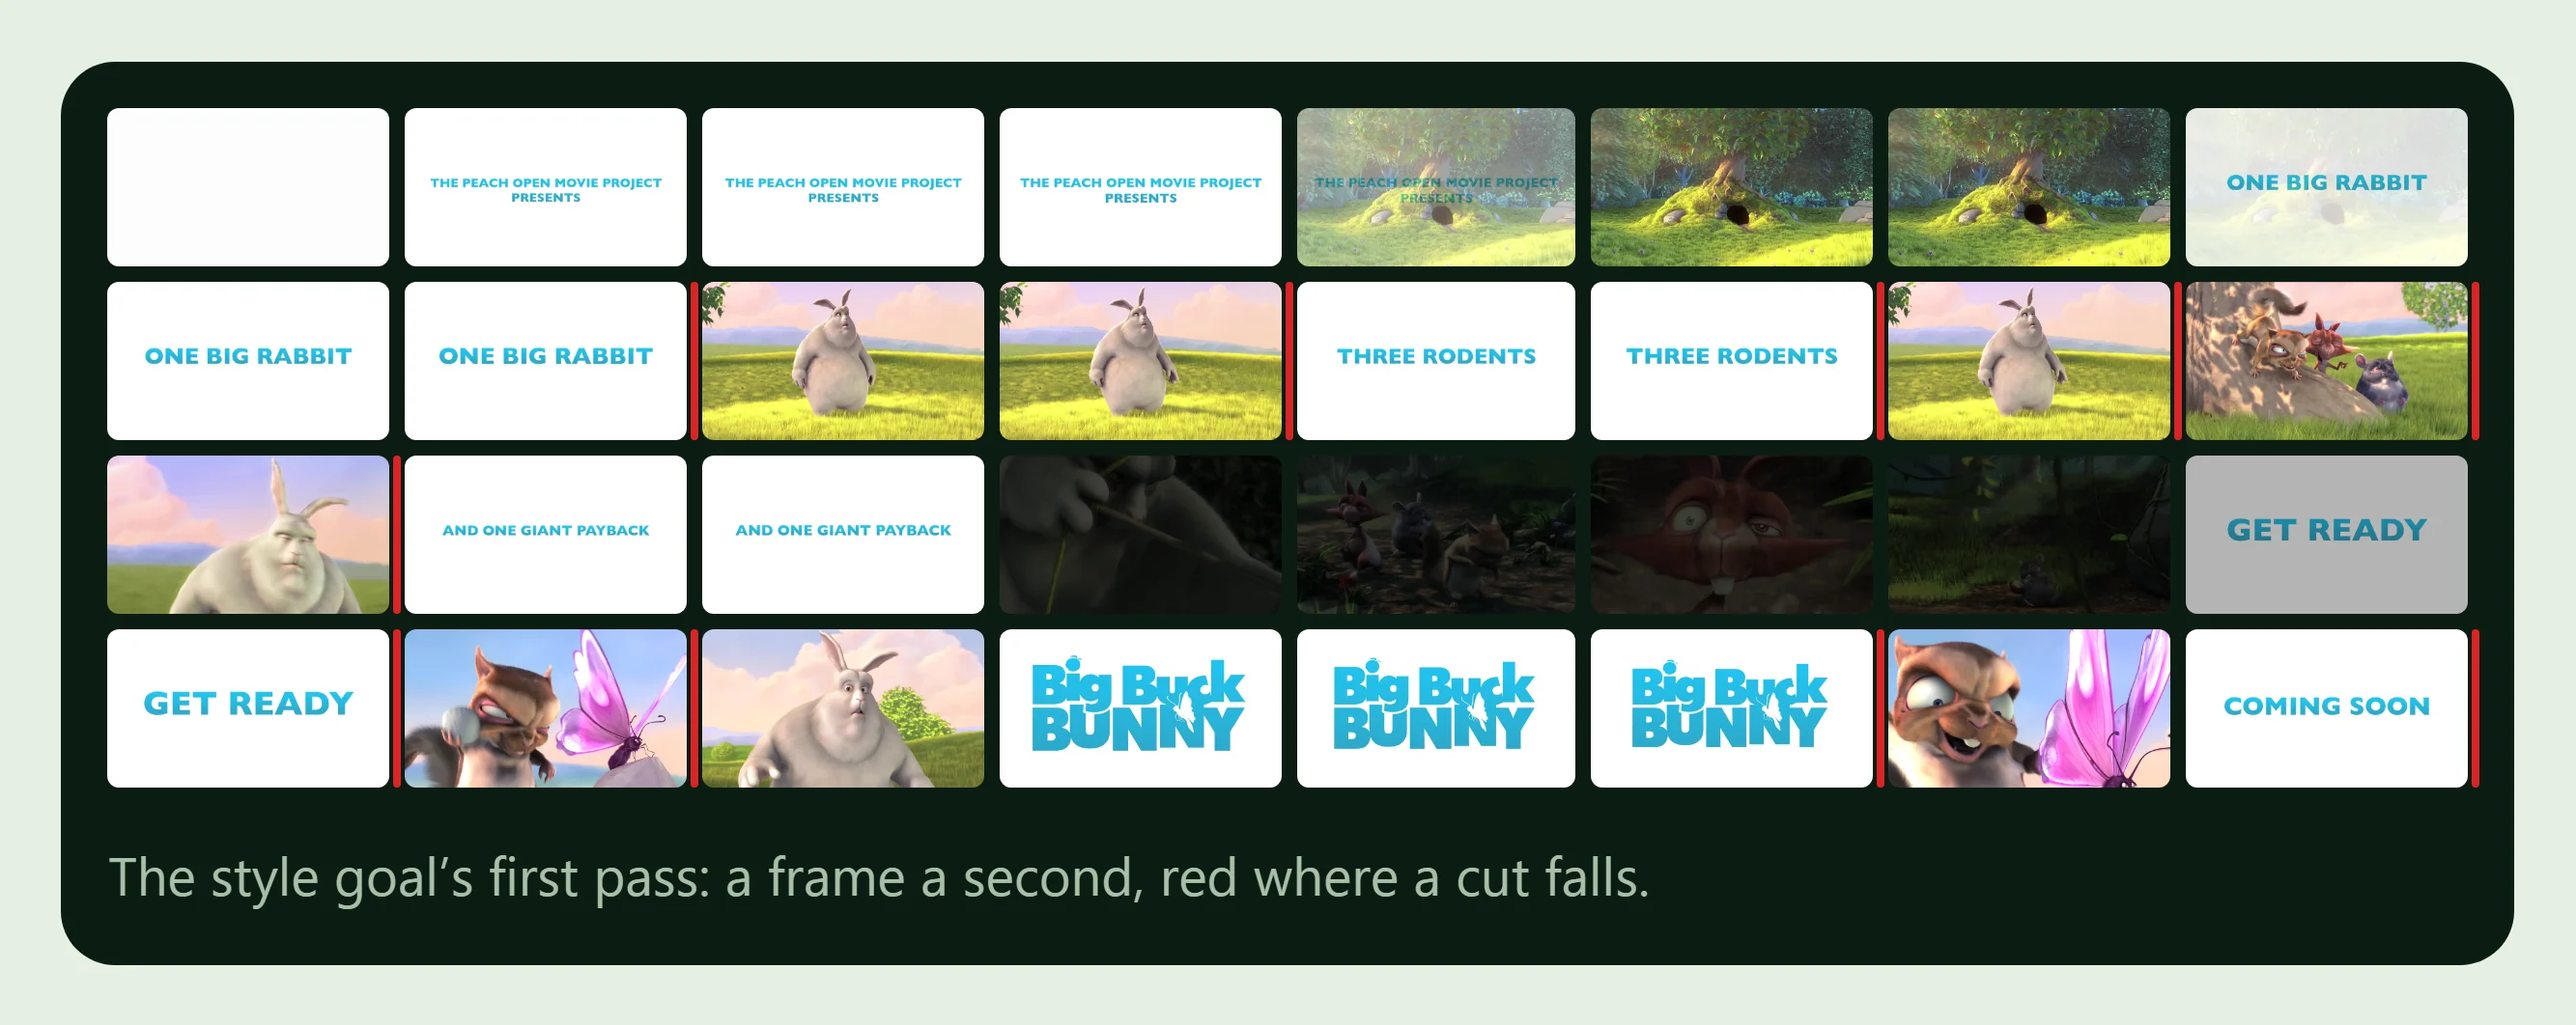
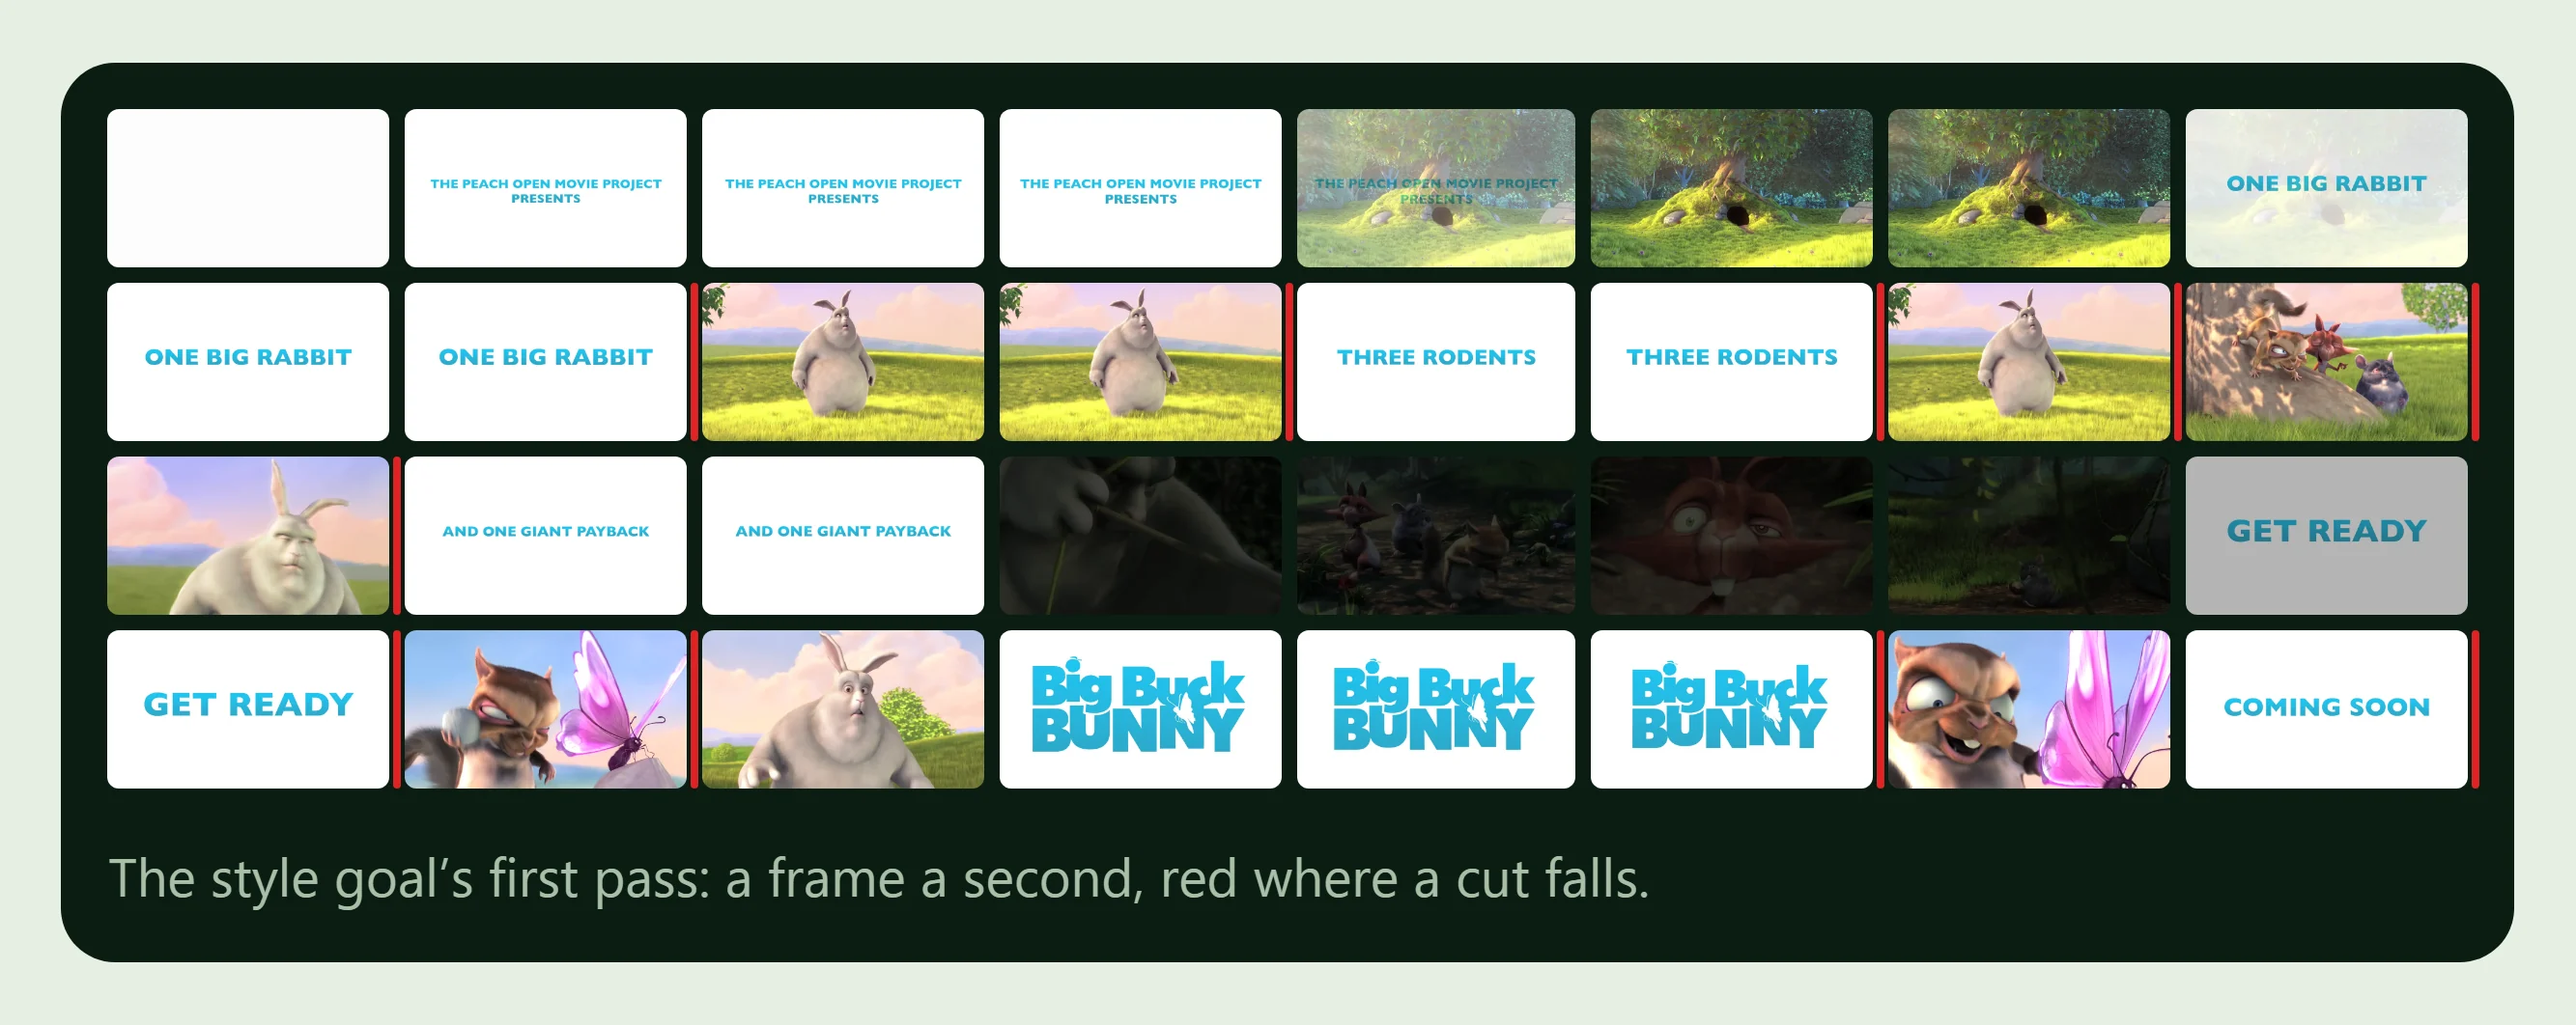
README: demo GIF, measured proof from the demo, new site screenshots
- The demo GIF (linked to demo.mp4) replaces its placeholder.
- "Why" uses the demo's proof as on the site: cubic-bezier(0.22, 1, 0.36, 1) animated,
  cubic-bezier(0.231, 0.951, 0.384, 0.996) measured by track, start 10.600 s (0 frames
  off), largest gap 0.18 px, grade exact; spring stiffness 170 read as 170.01. The
  trailer adds its 8 fades and dissolves and 20 shots from the regenerated reading.
- Screenshots recaptured from the updated site: the loupe scrubbed into the opening
  dissolve, the proof, the export tabs with the measured dots; readings table in full.
  Banner reading updated.
- Contributing links CONTRIBUTING.md and CODE_OF_CONDUCT.md; install names the MCP
  Registry entry io.github.Makkov-design/framelens (also in llms.txt).

diff --git a/scripts/site/banner.html b/scripts/site/banner.html
@@ -42,7 +42,7 @@
         <span class="cut" style="left: calc(50% - 5px)"></span>
         <span class="cut" style="left: calc(83.333% - 5px)"></span>
       </div>
-      <div class="reading"><span class="rec">● cut 9.08 s, frame 227</span><span><b>12 shots</b>, 11 cuts</span><span>25 fps</span><span>a palette per shot</span></div>
+      <div class="reading"><span class="rec">● cut 9.08 s, frame 227</span><span><b>11 cuts</b></span><span>8 fades and dissolves</span><span>20 shots at 25 fps</span></div>
     </div>
     <div class="bottom"><span class="cmd">npx -y framelens init</span><span class="targets">Cuts · easing · colour · beats → HyperFrames, Remotion, CSS, AE, Lottie</span></div>
   </div>

diff --git a/README.md b/README.md
@@ -1,5 +1,5 @@
 <p align="center">
-  <a href="https://makkov-design.github.io/framelens/"><img src="docs/assets/readme/banner.png" width="100%" alt="Frame Lens: video your agent can measure. A strip of Big Buck Bunny trailer frames with red cut marks and the reading: cut at 9.08 s, frame 227; 12 shots, 11 cuts, 25 fps."></a>
+  <a href="https://makkov-design.github.io/framelens/"><img src="docs/assets/readme/banner.png" width="100%" alt="Frame Lens: video your agent can measure. A strip of Big Buck Bunny trailer frames with red cut marks and the reading: cut at 9.08 s, frame 227; 11 cuts, 8 fades and dissolves, 20 shots at 25 fps."></a>
 </p>
 
 <h1 align="center">Frame Lens</h1>
@@ -31,27 +31,27 @@ VS Code, Windsurf and any other MCP client. It runs on your computer, needs no A
 runtime dependencies. It reads YouTube and hundreds of other sites, local files, live websites, Lottie, Rive and
 Figma, and turns what it finds into starter projects for HyperFrames, Remotion, CSS, After Effects and Lottie.
 
-<!--
-  DEMO GIF PLACEHOLDER: when docs/assets/demo.gif (and docs/assets/demo.mp4) exist, replace this comment with:
-  <p align="center"><a href="docs/assets/demo.mp4"><img src="docs/assets/demo.gif" width="100%" alt="Frame Lens in Claude Code: a reference video measured and rebuilt"></a></p>
--->
+<p align="center">
+  <a href="docs/assets/demo.mp4"><img src="docs/assets/demo.gif" width="100%" alt="The Frame Lens demo: the loupe reading the Big Buck Bunny trailer, a curve measured back from a render, a palette, and the export code"></a>
+  <br><sub>28 seconds, made in HyperFrames and then measured by Frame Lens itself. <a href="docs/assets/demo.mp4">Watch with sound</a>.</sub>
+</p>
 
 ## Why Frame Lens
 
 An agent that "watches" a video usually gets a handful of stills or the captions, and describes what it guesses:
 *"a quick, smooth move"*. That is not something you can build from.
 
-Frame Lens measures. On the 33-second Big Buck Bunny trailer it finds **11 cuts to the frame (9.08 s, 11.20 s,
-13.20 s, 13.88 s, 15.00 s, 16.00 s, 16.60 s, 24.92 s, 26.00 s, 29.96 s, 31.04 s)**, 12 shots at 25 fps and a palette
-for each. For the moves that matter, `track` fits the exact curve (a `cubic-bezier` or a spring, with its fit error),
-`export` writes it into CSS, Remotion, HyperFrames, After Effects or Lottie, and `compare` checks your render against
-the reference.
+Frame Lens measures. We animated a square in HyperFrames with **`cubic-bezier(0.22, 1, 0.36, 1)`, 640 px in 18
+frames at 30 fps**, rendered it, and gave the video to Frame Lens. `track` measured
+**`cubic-bezier(0.231, 0.951, 0.384, 0.996)`**, starting at **10.600 s (0 frames off)**, never more than **0.18 px**
+from where the square really was on any frame, grade `exact`. A spring of stiffness 170 and damping 12 read back as
+**stiffness 170.01**. `export` then writes that curve into CSS, Remotion, HyperFrames, After Effects or Lottie, and
+`compare` checks your render against the reference. How the demo was measured:
+[scripts/demo/CHECK.md](scripts/demo/CHECK.md).
 
-<!--
-  EXAMPLE PLACEHOLDER: a real tracked move from the trailer (start time, length in frames, exact curve and fit error)
-  goes here once the site's readings are regenerated with the transition fix. Do not use the "26.04 s, 23 frames,
-  cubic-bezier(0.7, 0, 0.84, 0)" move: it is a fade to white plus a scale-in that Frame Lens 2.0 read as one move.
--->
+On the 33-second Big Buck Bunny trailer it finds **11 cuts to the frame** (9.08 s, 11.20 s, 13.20 s, 13.88 s,
+15.00 s, 16.00 s, 16.60 s, 24.92 s, 26.00 s, 29.96 s, 31.04 s), **8 fades and dissolves** with their length (the
+opening dissolve runs 24 frames, 3.48–4.44 s), and 20 shots at 25 fps with a palette each.
 
 - **Measured, not described.** Cuts on their exact frame, every move with its duration and curve, an OKLab palette per
   shot, loudness, tempo and beats, transcripts with the time of every word.
@@ -63,23 +63,27 @@ the reference.
 
 ## See it work
 
-These are real Frame Lens readings of the [Big Buck Bunny](https://peach.blender.org) trailer, from the
-[website](https://makkov-design.github.io/framelens/).
+Real Frame Lens readings from the [website](https://makkov-design.github.io/framelens/): the
+[Big Buck Bunny](https://peach.blender.org) trailer and the demo film's own render.
 
-<img src="docs/assets/readme/contact-sheet.webp" alt="A contact sheet of 32 trailer frames, one a second, with red marks where a cut falls">
+<table>
+  <tr>
+    <td width="44%" valign="top">
+      <img src="docs/assets/readme/loupe.webp" alt="The loupe at 4.00 s, frame 100 of the trailer: shot 2 of 20, its palette, and the change: dissolve, 24 frames, 3.48 to 4.44 s; the ruler shows red cuts, pale fades and dissolves, green moves">
+      <p><b>The loupe.</b> Every mark on the ruler is a measurement: red cuts, pale fades and dissolves, green moves, a palette per shot.</p>
+    </td>
+    <td width="56%" valign="top">
+      <img src="docs/assets/readme/contact-sheet.webp" alt="A contact sheet of 32 trailer frames, one a second, with red marks where a cut falls">
+      <p><b>The first pass.</b> One frame a second for the style goal, red where a cut falls. Dense frames come only after this, around the moments that matter.</p>
+    </td>
+  </tr>
+</table>
 
-**The first pass.** One frame a second for the style goal, red where a cut falls. Dense frames come only after this,
-around the moments that matter.
+<img src="docs/assets/readme/proof.webp" alt="Frame Lens read our curve back within 0.18 px: animated cubic-bezier(0.22, 1, 0.36, 1), 640 px in 18 frames at 30 fps; measured cubic-bezier(0.231, 0.951, 0.384, 0.996), start 10.600 s, 0 frames off, largest gap on any frame 0.18 px, grade exact">
 
-<img src="docs/assets/readme/readings.webp" alt="Table: the trailer read from pixels, 12 shots, 11 cuts, 25 fps; a live website read from the browser, 328 animations, mostly 500 ms on cubic-bezier(0.16, 1, 0.3, 1); Rive files and Figma prototypes read from the file; YouTube and most video sites through a pinned yt-dlp">
+<img src="docs/assets/readme/export.webp" alt="The measured move in five renderers: dots where the square was on each frame on the fitted curve, next to the CSS export with cubic-bezier(0.2312, 0.9511, 0.3843, 0.9964)">
 
-**Measured or read exactly.** Video is measured from pixels; websites, Lottie, Rive and Figma are read from their own
-data.
-
-<!--
-  SCREENSHOT PLACEHOLDER: the site's loupe (.loupe), "described vs measured" (.versus) and export/curve (.export)
-  sections go here once they show the corrected tracked move. Re-enable them in scripts/site/readme-shots.mjs.
--->
+<img src="docs/assets/readme/readings.webp" alt="Table: the trailer read from pixels, 20 shots, 11 cuts, 8 fades and dissolves; a live website read from the browser, 328 animations, mostly 500 ms on cubic-bezier(0.16, 1, 0.3, 1); a Lottie file, our export read back from keyframes exactly; Rive files and Figma prototypes read from the file; YouTube and most video sites through a pinned yt-dlp">
 
 ## Quick start
 
@@ -215,6 +219,8 @@ limits: [docs/ACCURACY.md](docs/ACCURACY.md).
 | Duration, worst error | 0.46 frame |
 | Spring stiffness and damping, mean error | 0.2 % or less |
 
+On a real render, the demo film, `track` read a `cubic-bezier(0.22, 1, 0.36, 1)` move back within 0.18 px on every
+frame with its start 0 frames off, and a spring's stiffness of 170 as 170.01 ([scripts/demo/CHECK.md](scripts/demo/CHECK.md)).
 These clips are clean synthetic renders; real footage adds motion blur, rotation, occlusion and camera moves, and
 `track` reports its fit error and a quality grade (`exact`, `approximate`, `unreliable`) for every curve so you can
 judge it. Websites, Lottie, Rive and Figma need no estimate: their curves are read from the source.
@@ -227,7 +233,8 @@ agent skill [`skills/framelens/SKILL.md`](skills/framelens/SKILL.md); repository
 
 ### Install in your client
 
-`npx -y framelens` starts the server on stdio. Pin a version (`framelens@2.1.0`) when you want to choose when to
+`npx -y framelens` starts the server on stdio. In the [MCP Registry](https://registry.modelcontextprotocol.io) its name
+is `io.github.Makkov-design/framelens` ([server.json](server.json)). Pin a version (`framelens@2.1.0`) when you want to choose when to
 upgrade. On **Windows**, clients that start the server themselves need `cmd /c` in front of `npx` (in JSON:
 `"command": "cmd", "args": ["/c", "npx", "-y", "framelens"]`). Add `GEMINI_API_KEY` only if you want the Gemini tools.
 
@@ -477,6 +484,7 @@ npm run bundle                  # writes dist/framelens.mjs; commit it with the 
 node scripts/benchmark.mjs      # the accuracy benchmark
 ```
 
+Start with [CONTRIBUTING.md](CONTRIBUTING.md); by taking part you agree to the [Code of Conduct](CODE_OF_CONDUCT.md).
 Read [AGENTS.md](AGENTS.md) for the repository's rules (evidence labels, honest access, tests) and
 [docs/DESIGN.md](docs/DESIGN.md) for the module layout. Inside this repository, `npx framelens` resolves to the
 checkout itself; point an MCP client at `dist/framelens.mjs` while developing.
